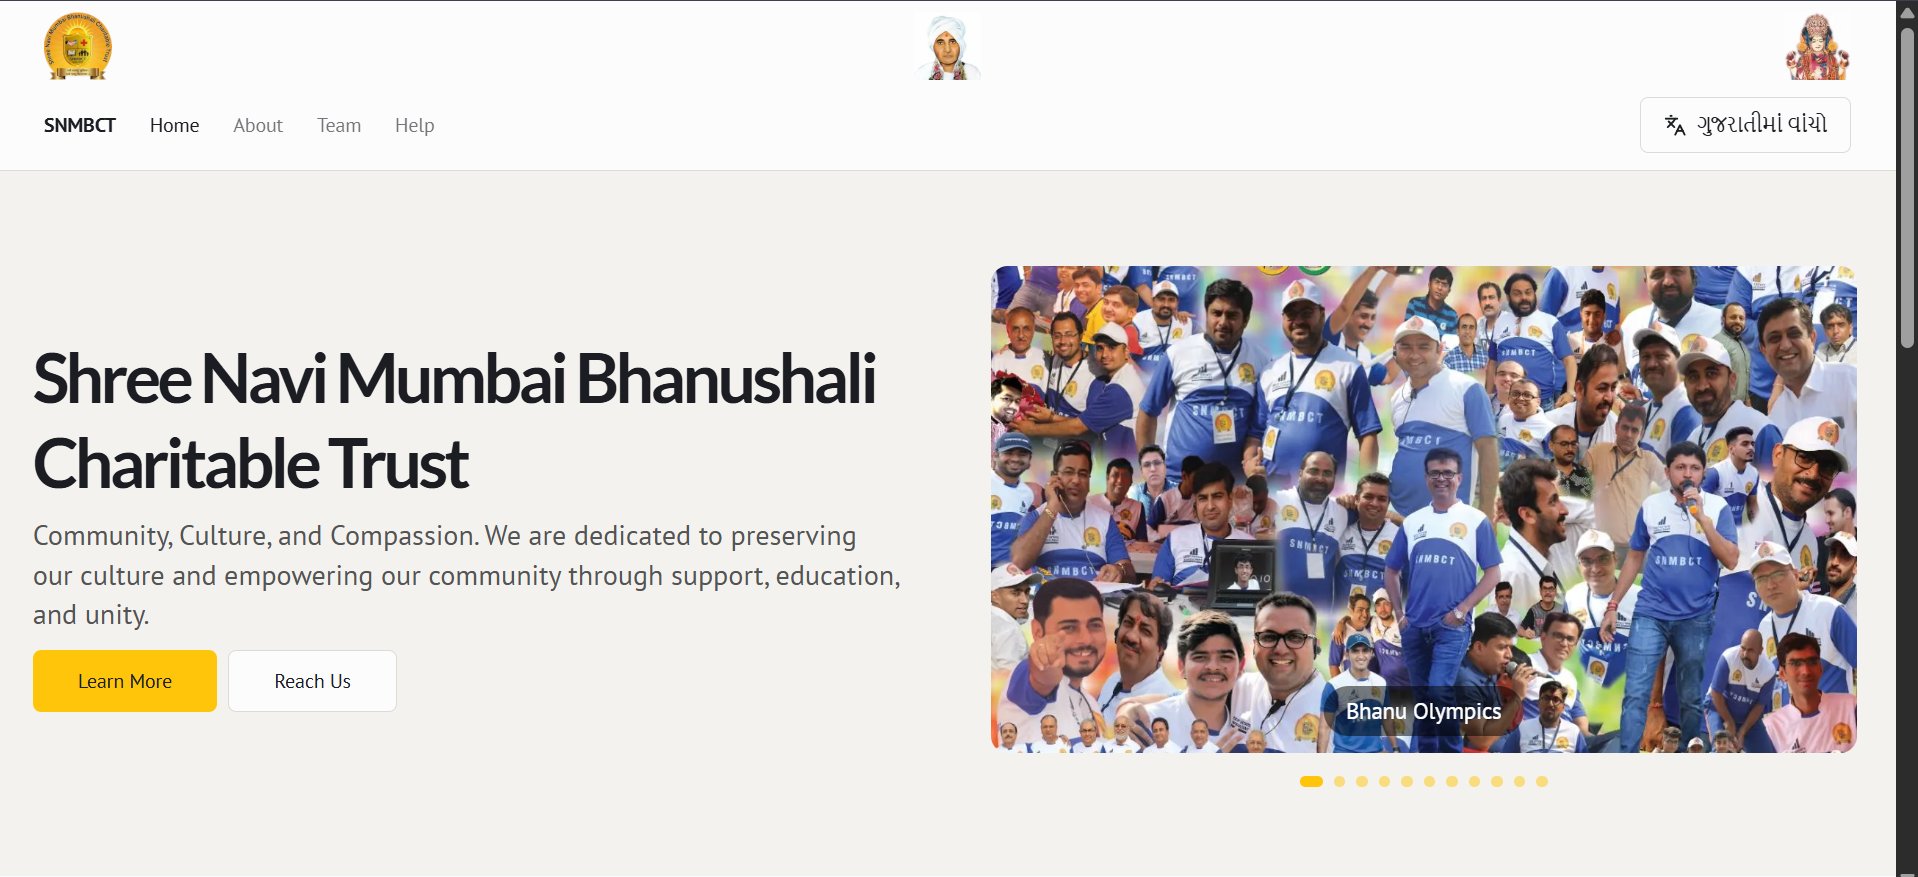
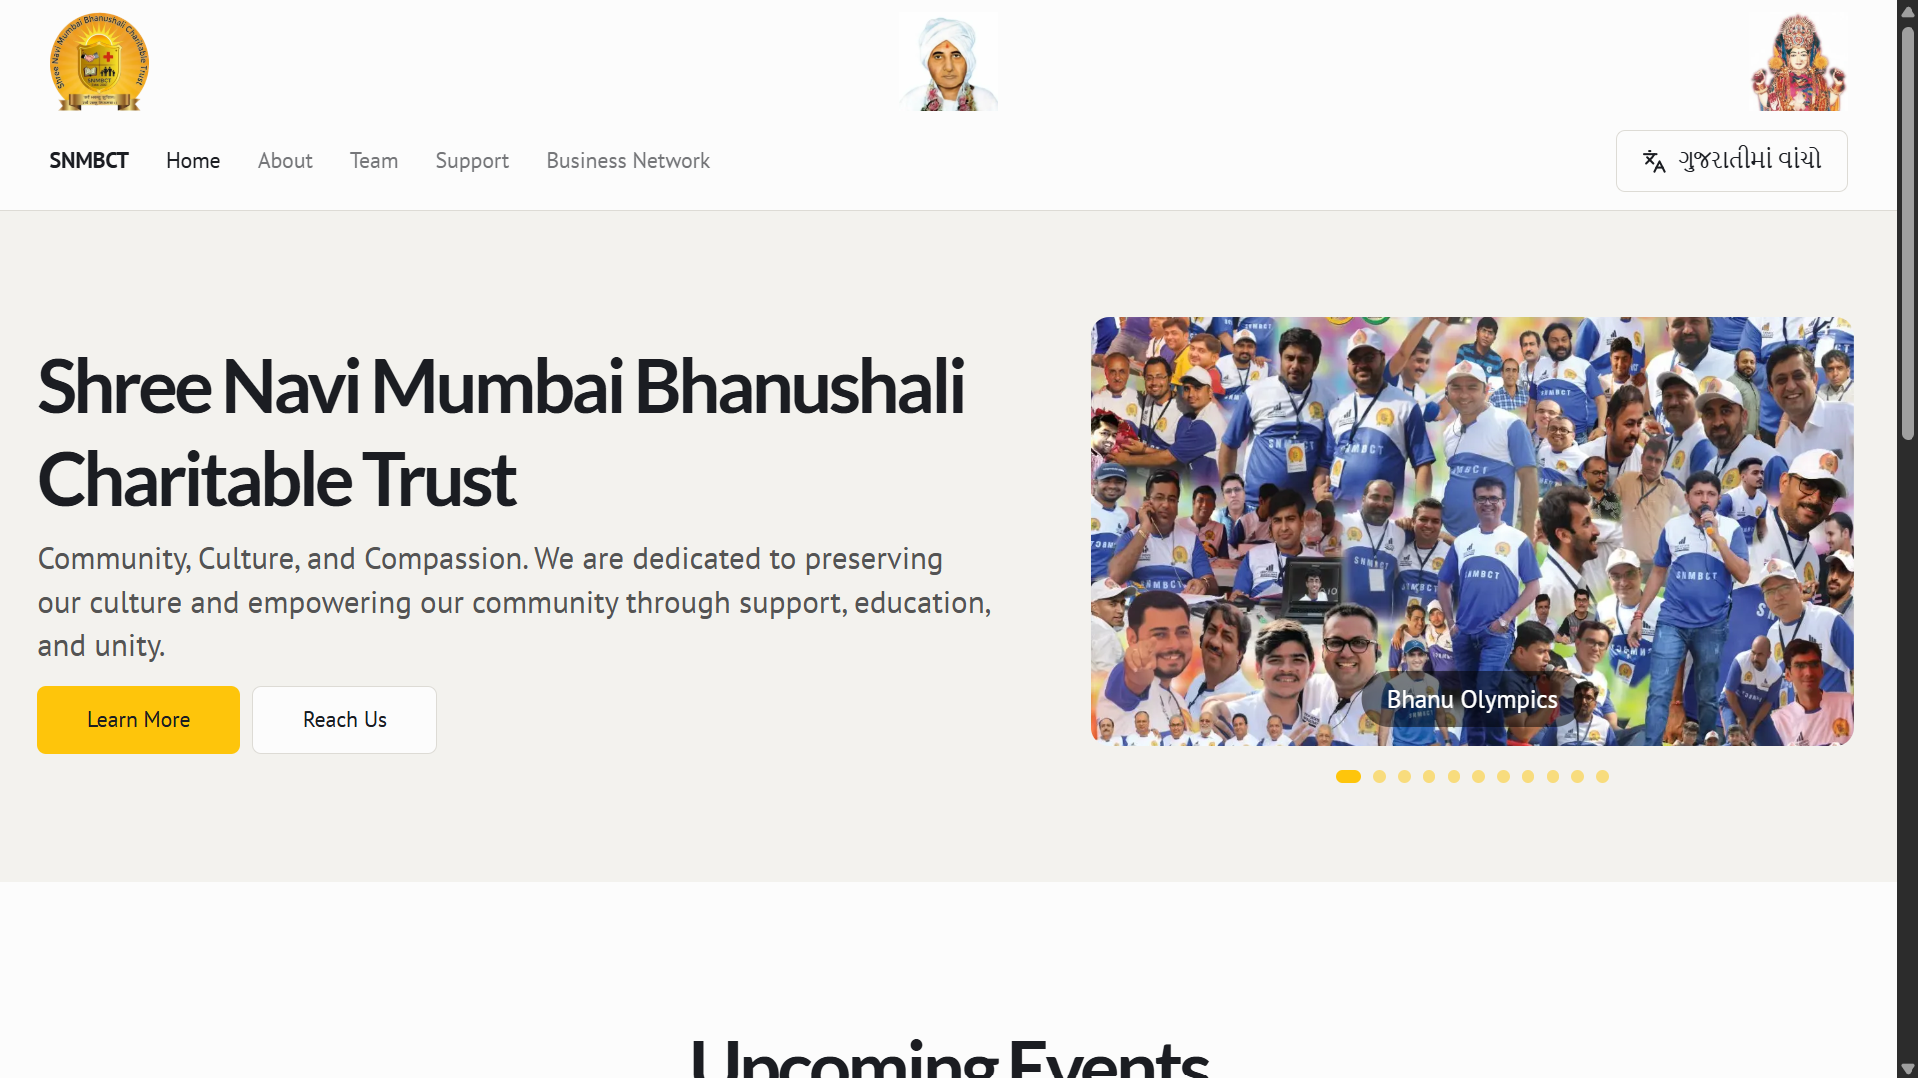
img fix

diff --git a/index.html b/index.html
@@ -45,7 +45,7 @@
             height: 100%;
             background-image: url('snmbct.png');
             background-size: cover;
-            background-position: center;
+            background-position: top;
             z-index: 1;
         }
 
